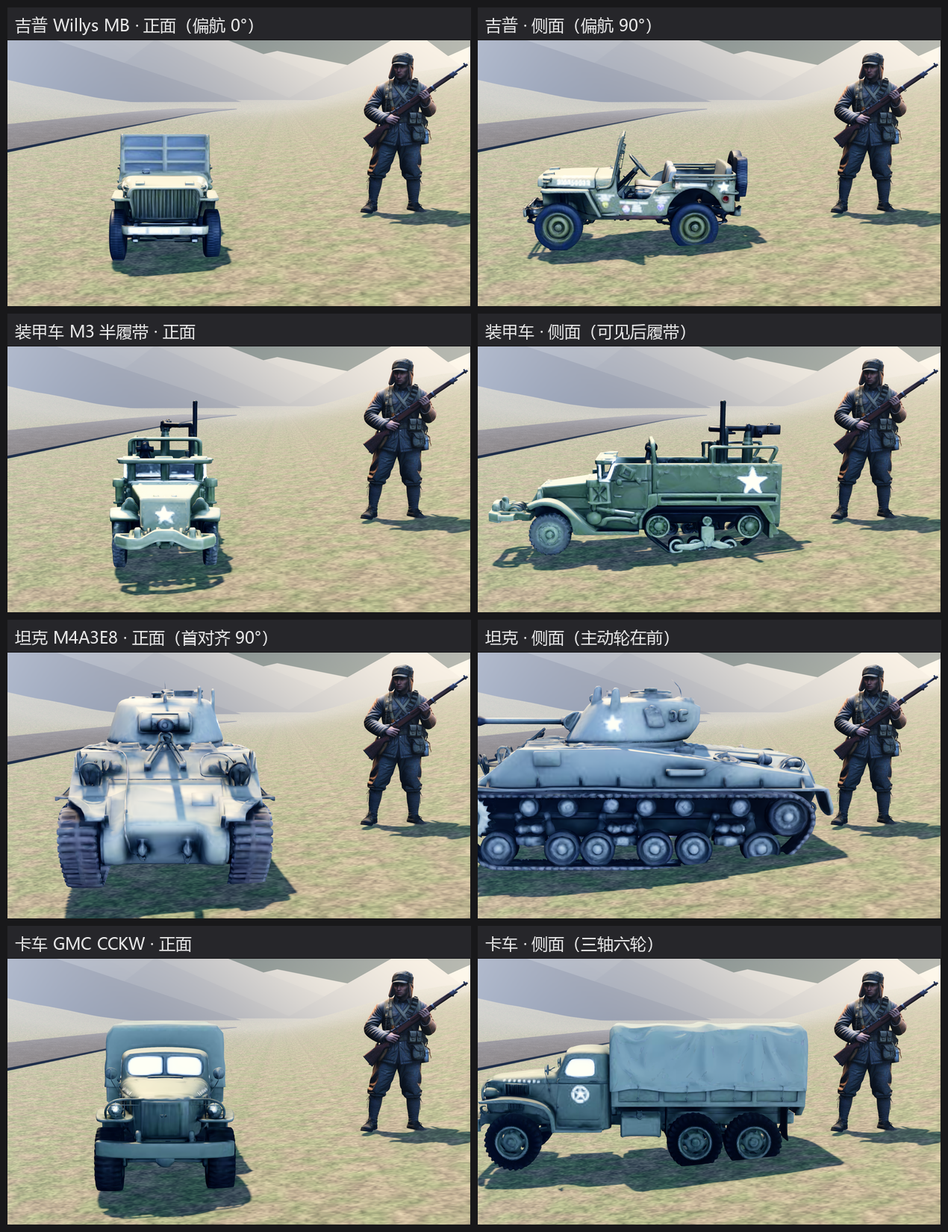
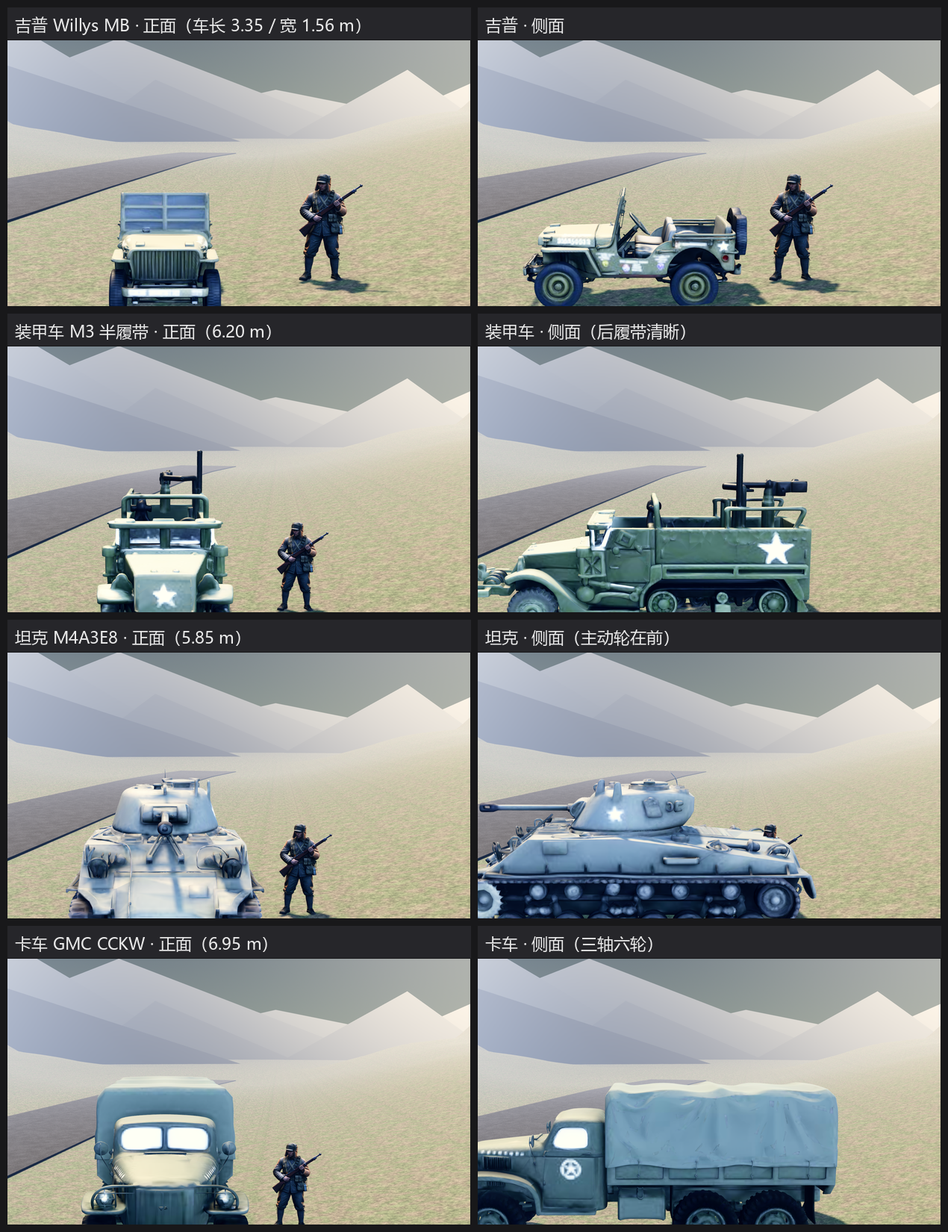
载具改为实车尺寸：先把"看起来多大"和"占多大地方"拆开，再让车长按实车归一化
用户裁决："我更想要'看起来像真车'"。上一版四辆车接了图生3D 真模型，但归一化
目标是 `spec.len × S`，而 `spec.len` 当时是一套"还没有模型时的占位碰撞盒"
（吉普 2.3 m / 实物 3.33 m，只占实物 47%~63%）——站在 1.68 m 的兵旁边像高尔夫球车。
本轮把 `VehicleSpec.len/wid` 改成实车尺寸。**这是用户明确授权的取舍**：
`len/wid` 同时是 sim 判遮挡/碰撞的车体盒，改它等于放宽碰撞，会动平衡基线。
（`src/sim/` 的"一行不动"红线由用户本轮主动解除，其余约束照旧。）

一、改了什么（数据是本轮唯一的"尺寸真值"）

  src/sim/va_config.cpp  四辆车 len/wid 改实车尺寸（单位 = 0.05 m）：
      吉普   67×31   ← Willys MB 3.33×1.57 m
      装甲车 124×44  ← M3 半履带 6.18×2.22 m
      坦克   117×60  ← M4A3E8 车体 5.84×2.99 m（取车体长，不含 76mm 炮管前伸）
      卡车   139×45  ← GMC CCKW 353 6.93×2.24 m
  渲染尺寸的唯一来源就是这个数（`scene_builder.cpp` 按 `spec.len * S` 等比归一化），
  所以 `src/node/` 不需要改任何渲染逻辑 —— 这是本轮改法能成立的根本原因。

  坦克为什么取车体长而不是含炮管的 7.54 m：用新增的 `tools/glb_profile.py`
  沿长轴切 120 片量剖面（每片取"另外两轴跨度"的较大者当厚度，找最长连续厚实段
  = 车体），实测模型两端都是履带环那种全宽-扁平截面、没有细突出物
  → 包围盒长轴 ≈ 车体长 → 按包围盒归一化即等于按车体归一化。
  取含炮管的全长会把整个车体缩小 22%。

二、受牵连的六个写死的常量（不改**都不报错**，只是静默变错）

  `len/wid` 原先身兼数职，底下挂着一串"按旧车长（2~3.7 m）调过"的常量：

  1. va_world.cpp  车队生成间距硬编码 `i * 132`（6.6 m），而停车排队用
     `CFG.convoyGap = 145` —— 两个数各说各话。实车卡车 6.93 m（139 单位）
     比 132 还长，行进中会与前后车穿模。→ 统一走 `CFG.convoyGap`，只留一个真值。
  2. va_ai_enemy.cpp 增援卡车间距硬编码 `k * 140` → 同上统一走 `CFG.convoyGap`。
  3. va_ai_enemy.cpp 增援卡车抄了一份 `v.len = 66; v.wid = 30;` —— 正好等于
     当时的卡车 spec 值，看起来"没毛病"，spec 一改就会静默留在旧尺寸上，
     让增援卡车比车队里的卡车小一圈。→ 改从 `tsp->len/wid` 取。
     （`v.armor = 0.34f` 保留显式覆写：增援车有意更软，那是玩法设定。）
  4. va_units.cpp 残骸跟停写死中心距 `<= 52`（2.6 m，两车半长之和按旧车长算）
     —— 旧车长时就已经让后车叠进前车 0.7 m，只是车小看不太出来；
[…]

diff --git a/tools/glb_profile.py b/tools/glb_profile.py
@@ -1,0 +1,126 @@
+#!/usr/bin/env python3
+# -*- coding: utf-8 -*-
+"""GLB 沿长轴的剖面量测 —— 分出「厚实车体」与「细突出物（炮管/保险杠/天线）」。
+
+为什么需要它
+------------
+图生3D 出来的载具，包围盒的**长轴尺寸里含炮管**。而引擎侧 `VehicleSpec.len`
+是 sim 用来判碰撞与遮挡的**车体盒**（`vehicle_blocked` / `vehicle_hit`），它表示的
+应该是"车体占多大地方"，不是"连炮管算多长"。坦克的 76mm 炮管前伸约 1.7 m、
+占整体长度的两成：拿"含炮管"的长度当碰撞盒 → "子弹在炮管前的空气里被挡下"；
+拿车体当碰撞盒却按"含炮管"去归一化模型 → 坦克被静默缩到实车的七成多。
+两个方向都错，所以先量出来再定。
+
+判据（故意做成纯几何：不看名字、不看朝向）
+------------------------------------------
+沿长轴切 NBIN 片，每片取**另外两轴跨度的较大者**当该片"厚度"。
+车体（含履带/车轮）一定厚，炮管/保险杠/天线一定薄。以全局最大厚度的
+HULL_FRAC_MIN 为门槛，取**最长的连续达标段** = 车体，两端余下即突出物。
+
+长轴由实测决定，**不猜**：图生3D 的长轴躺在哪个轴逐张不同，假定长轴=X
+曾把坦克静默放大 7.03 倍（见 SKILL 的载具小节）。
+
+只读，不改文件。用法：
+    python tools/glb_profile.py --all
+    python tools/glb_profile.py assets/art/veh/model/veh_tank.glb
+"""
+import os
+import sys
+
+HERE = os.path.dirname(os.path.abspath(__file__))
+sys.path.insert(0, HERE)
+
+import glb_preview as G   # noqa: E402  复用它的 GLB 解析（含 BIN 块按前 3 字节比那处修正）
+
+ROOT = os.path.dirname(HERE)
+MODEL_DIR = os.path.join(ROOT, "assets", "art", "veh", "model")
+
+NBIN = 120              # 沿长轴分的片数：再密就受三角面分布噪声影响
+HULL_FRAC_MIN = 0.55    # 片厚度 ≥ 全局最大厚度的这个比例，才算"车体"
+BAR = 46
+
+
+def measure(path):
+    js, bin_ = G.glb_read(path)
+    pts = G.collect_points(js, bin_)
+    name = os.path.basename(path)
+    if not pts:
+        print("%s : 没有顶点" % name)
+        return None
+
+    mn = [min(p[a] for p in pts) for a in range(3)]
+    mx = [max(p[a] for p in pts) for a in range(3)]
+    size = [mx[a] - mn[a] for a in range(3)]
+    long_axis = max(range(3), key=lambda a: size[a])
+    other = [a for a in (0, 1, 2) if a != long_axis]
+
+    lo, hi = mn[long_axis], mx[long_axis]
+    span = hi - lo
+
+    # 逐片截面：记另外两轴各自的 min/max，再取跨度较大者当"厚度"
+    bin_lo = [[None] * NBIN for _ in other]
+    for p in pts:
+        i = int((p[long_axis] - lo) / span * NBIN)
+        i = 0 if i < 0 else (NBIN - 1 if i >= NBIN else i)
+        for k, a in enumerate(other):
+            bl = bin_lo[k][i]
+            if bl is None:
+                bin_lo[k][i] = [p[a], p[a]]
+            else:
+                if p[a] < bl[0]:
+                    bl[0] = p[a]
+                if p[a] > bl[1]:
+                    bl[1] = p[a]
+
+    thick = []
+    for i in range(NBIN):
+        w = [0.0 if bin_lo[k][i] is None else bin_lo[k][i][1] - bin_lo[k][i][0]
+             for k in range(len(other))]
+        thick.append(max(w) if w else 0.0)
+
+    # 最长连续达标段 = 车体
+    thr = max(thick) * HULL_FRAC_MIN
+    best = (0, -1)
+    i = 0
+    while i < NBIN:
+        if thick[i] >= thr:
+            j = i
+            while j + 1 < NBIN and thick[j + 1] >= thr:
+                j += 1
+            if j - i > best[1] - best[0]:
+                best = (i, j)
+            i = j + 1
+        else:
+            i += 1
+    hull_n = best[1] - best[0] + 1
+    hull_frac = hull_n / float(NBIN)
+
+    print("%-16s 包围盒 (%.3f, %.3f, %.3f)  长轴 %s = %.3f" % (
+        name, size[0], size[1], size[2], "XYZ"[long_axis], span))
+    print("    车体 %.1f%% 长轴（余 %.1f%% 是突出物：左 %.1f%% 右 %.1f%%）" % (
+        hull_frac * 100.0, (1.0 - hull_frac) * 100.0,
+        best[0] / float(NBIN) * 100.0, (NBIN - 1 - best[1]) / float(NBIN) * 100.0))
+    peak = max(thick) or 1.0
+    for i in range(0, NBIN, 4):
+        m = max(thick[i:i + 4])
+        n = int(round(m / peak * BAR))
+        mark = "#" if m >= thr else "."
+        print("    |%s%s|%s %3d%%" % ("#" * n, " " * (BAR - n), mark,
+                                      int(round((i + 2) / float(NBIN) * 100.0))))
+    return hull_frac, size, long_axis
+
+
+def main():
+    args = sys.argv[1:]
+    if not args or args[0] == "--all":
+        files = sorted(os.path.join(MODEL_DIR, f) for f in os.listdir(MODEL_DIR)
+                       if f.endswith(".glb"))
+    else:
+        files = args
+    for f in files:
+        measure(f)
+        print("")
+
+
+if __name__ == "__main__":
+    main()

diff --git a/src/sim/va_config.cpp b/src/sim/va_config.cpp
@@ -113,12 +113,39 @@ const ShellSpec  SHELL { "坦克主炮", 640, 190, 96, 11.0f, 1.6f };
 // 平衡旋钮的运行时实例（默认值见 va_config.h；1.0 = 网页版原值）
 BalanceCfg BAL;
 
-// 注意 armor 语义：子弹穿透系数 = v.armor，数值越大越软。
+/* 注意 armor 语义：子弹穿透系数 = v.armor，数值越大越软。
+ *
+ * len / wid 已改为**实车尺寸**（单位 = 逻辑单位，20 单位 = 1 米，见 S）。
+ * 为什么值得动这张表：它同时是**渲染尺寸的唯一来源** —— 表现层按
+ * `target_len = spec.len * S` 等比归一化模型，所以改这里，视觉自动跟着走，
+ * src/node/ 一行都不用动。原先的 46/60/74/66 是"还没有模型时的占位碰撞盒"，
+ * 只做到实车的 47%~63%：吉普渲染出来 2.3 m（实车 3.33 m），
+ * 站在 1.68 m 的兵旁边像辆高尔夫球车。实车尺寸（公开数据）：
+ *
+ *   吉普   Willys MB            3.33 × 1.57 m
+ *   装甲车 M3 Half-track        6.18 × 2.22 m
+ *   坦克   M4A3E8 Sherman       5.84 × 2.99 m（车体长；含 76mm 炮管前伸为 7.54 m）
+ *   卡车   GMC CCKW 353         6.93 × 2.24 m
+ *
+ * 坦克取**车体**长而不是含炮管：炮管是前伸的细杆，用它当碰撞盒会让
+ * "子弹在炮管前的空气里被挡下"。实测过模型的剖面（tools/glb_profile.py）：
+ * 图生3D 出的坦克模型长轴方向**没有细突出物**（两端都是履带环那种全宽截面），
+ * 包围盒长轴 ≈ 车体长，所以按包围盒归一化即等于按车体归一化，两边自洽。
+ *
+ * ⚠ 改这张表会连带影响一串"按旧车长调过"的距离常量（生成间距 / 残骸跟停 /
+ * 下车偏移 / 机枪口），它们都已改成从 len/wid 推导 —— 见各自的注释。
+ * 另：载具殉爆半径 `len * 0.9`（va_level.cpp）**跟着 len 一起变大**，
+ * 那是刻意保留的（车大了爆炸自然大），已用 va_sweep 量过对胜率的影响。
+ */
 namespace {
-const VehicleSpec V_jeep  { "吉普",   150, 46, 24, 78, 0.30f, 2, 0, true,  7, 480, 0.13f, 0.100f, 16, false };
-const VehicleSpec V_apc   { "装甲车", 400, 60, 30, 62, 0.16f, 3, 6, true,  9, 520, 0.11f, 0.095f, 24, false };
-const VehicleSpec V_tank  { "坦克",   950, 74, 38, 44, 0.04f, 3, 0, true,  9, 520, 0.12f, 0.100f, 20, true  };
-const VehicleSpec V_truck { "卡车",   260, 66, 30, 66, 0.60f, 2, 6, false, 0, 0,   0.0f,   0.0f,   0,  false };
+/* 末位 = blast_r（殉爆半径），见 va_types.h 的说明。
+   取值 = 车长改实车尺寸**之前**的 0.9 × len，即"把改动前的威力原样保留"：
+   41.4 / 54 / 66.6 / 59.4 取整。不写 0（自动 = len × 0.9）是刻意的 ——
+   否则车一变长，打爆它的杀伤范围就跟着变，玩法会被美术改动牵着走。 */
+const VehicleSpec V_jeep  { "吉普",   150,  67,  31, 78, 0.30f, 2, 0, true,  7, 480, 0.13f, 0.100f, 16, false, 41.0f };
+const VehicleSpec V_apc   { "装甲车", 400, 124,  44, 62, 0.16f, 3, 6, true,  9, 520, 0.11f, 0.095f, 24, false, 54.0f };
+const VehicleSpec V_tank  { "坦克",   950, 117,  60, 44, 0.04f, 3, 0, true,  9, 520, 0.12f, 0.100f, 20, true,  67.0f };
+const VehicleSpec V_truck { "卡车",   260, 139,  45, 66, 0.60f, 2, 6, false, 0, 0,   0.0f,   0.0f,   0,  false, 59.0f };
 } // namespace
 
 const VehicleSpec *vehicle_of(const std::string &type) {

diff --git a/src/node/world_sim.cpp b/src/node/world_sim.cpp
@@ -220,19 +220,27 @@ void WorldSim::build_unit_showcase() {
         const char *kinds[4] = { "jeep", "apc", "tank", "truck" };
         const int   n = row ? 4 : 1;
 
-        // 取景：横向半视场 = 0.2867 × (2560/1369) ≈ 0.536（FOV 32 时），
-        // 竖直半视场 = 16° = 0.2793 rad。按"最宽的也要留约 20% 余量"定：
-        //   单车 —— 画面里还要站一个 1.68 m 的兵做比例尺（见下），他落在
-        //           车右侧 2.4 m 处，最坏情况（坦克侧视，半长 1.85 m）也在框内；
-        //           0.536×D ≥ (2.4+人身半宽 0.3)×1.2 → D ≥ 6.0。
-        //   陈列排 —— 四辆按 2.0 m 间距共 6.0 m，再加最宽的坦克半个身位 0.83 m，
-        //           0.536×D ≥ 3.83×1.2 → D ≥ 8.6。
-        // 机高取 1.6~2.1：**不能照抄角色那套 1.05 m** —— 相机比车顶还低的话
-        // 看到的是纯正面，车厢里装了什么、轮子有几个全被车头挡住。
-        const float DIST_M = row ? 8.8f : 6.2f;
-        const float CAM_H  = row ? 2.05f : 1.60f;
-        const float PITCH  = row ? -0.15f : -0.19f;
-        const float GAP_M  = 2.0f;
+        /* 取景（2026-09-20 车长改实车尺寸后重新推的 —— 旧值是按 2~3.7 m 的小车算的，
+           照抄会让四辆车直接出框）。
+           横向半视场 = 0.2867 × (2560/1369) ≈ 0.536（FOV 32 的竖直角换算来的）。
+           单车 —— 侧视时屏幕跨度 ≈ 车长 L（最长 6.95 m，卡车），再加参照兵横移：
+                   0.536×D ≥ (L + 参照兵 2.4)×0.5×1.2  →  D ≈ 7.0 + 0.6×L
+           陈列排 —— **一字排开且全部朝镜头时，横向占位是车宽、不是车长**
+                   （车长朝镜头里延伸，由透视体现）。四辆宽度 1.56+2.32+2.84+2.62
+                   = 9.34 m，加 3 段 3 m 间隙 = 18.3 m：
+                   0.536×D ≥ 18.3/2×1.15 → D ≥ 19.6，取 20.5。
+                   间距取 3 m 的依据是**相邻半宽之和**（最坏 1.42+1.50 = 2.92），
+                   不是车长 —— 按车长算会得出 7 m 间距、D 要 46 m，人跟车都小到看不清。
+           （第一版实车取景就是拿车长当横向占位推的，结果间距 1.5 m 让四辆车互相遮挡。）
+           机高 —— "相机不能比车顶低"这条对实车更要紧（实车本体 2.3~3.0 m 高），
+                   取 1.6 + 0.30×L：吉普 2.6 / 半履带 3.46 / 坦克 3.36 / 卡车 3.69。
+           单车的 D 与机高**按该车的实际车长算**，所以换车型不用再回来调常数。 */
+        const va::VehicleSpec *fsp = va::vehicle_of(row ? "truck" : key);
+        const float frameL = (fsp != nullptr) ? fsp->len / U : 3.0f;   // 米
+        const float DIST_M = row ? 20.5f : (7.0f + 0.60f * frameL);
+        const float CAM_H  = row ? 4.60f : (1.60f + 0.30f * frameL);
+        const float PITCH  = row ? -0.13f : -0.13f;
+        const float GAP_M  = row ? 3.0f : 0.0f;
         const float REF_OFF_M = 2.4f;   // 比例尺参照兵与车心的横向间距（仅单车模式）
 
         int built = 0;

diff --git a/src/sim/va_ai_enemy.cpp b/src/sim/va_ai_enemy.cpp
@@ -24,6 +24,11 @@ void dismount(Vehicle *v) {
     for (int i = 0; i < n; ++i) {
         const int side = RNG.next() < 0.5f ? 1 : -1;
         const float a = 3.141592653589793f / 2 * side + rr(-0.5f, 0.5f);
+        /* 下车位置必须在**车体之外**。偏移原先写死 rr(16,42)（0.8~2.1 m），
+           那是按旧车宽 1.2 m 定的；车宽改成实车（最大半宽 1.5 m）之后，
+           rr(16,·) 会让士兵直接**生成在车厢内部**。改成从半宽起算。 */
+        const float outA = v->wid * 0.5f + rr(10.0f, 34.0f);
+        const float outB = v->wid * 0.5f + rr(10.0f, 34.0f);
         const bool isOfficer = (W.officerVeh == v) && !W.officerSpawned && i == 0;
         if (isOfficer) W.officerSpawned = true;
         const bool isLmg = (i % 5 == 0);
@@ -143,15 +148,20 @@ void spawn_reinforcement() {
         v.type = "truck";
         v.name = "增援卡车" + std::to_string(k + 1);
         v.team = Team::Enemy;
-        v.x = 2320 + k * 140; v.y = 700; v.angle = 3.141592653589793f;
+        v.x = 2320 + (float)k * CFG.convoyGap; v.y = 700; v.angle = 3.141592653589793f;
         v.speed = 26; v.baseSpeed = 26;
         v.hp = tsp->hp; v.maxHp = tsp->hp; v.spec = tsp;
-        v.len = 66; v.wid = 30; v.armor = 0.34f;
+        /* 尺寸一律从 spec 取。原先这里硬写着 `v.len = 66; v.wid = 30;` ——
+           正好等于当时卡车 spec 的值，所以看起来"没毛病"；但 spec 一改
+           （本轮改实车尺寸）这里就会静默地留在旧尺寸上，让增援卡车比车队里的
+           卡车**小一圈**且不报任何错。armor 保留显式覆写：增援车有意更软，
+           那是玩法设定，不是从 spec 抄漏了。 */
+        v.len = tsp->len; v.wid = tsp->wid; v.armor = 0.34f;
         v.destroyed = false; v.burning = 0;
         v.turret = 3.141592653589793f; v.fireCd = 99; v.wpnCd = 2;
         v.capacity = 6; v.dismountT = -1; v.dismounted = false;
         v.state = "drive"; v.line = 1; v.speedMul = 1;
-        v.dist = -(float)k * 140;
+        v.dist = -(float)k * CFG.convoyGap;
         v.hasBox = false; v.hitFlash = 0; v.stopT = 0;
         v.troopPlan = 6; v.isReinforcement = true; v.blockedT = 0;
     }

diff --git a/src/node/scene_builder.h b/src/node/scene_builder.h
@@ -89,15 +89,16 @@ godot::Node3D *make_box_node();
 // vehicle_of() 认的那四个键（jeep / apc / tank / truck），与程序化那套同名同数。
 // 载入失败一律回退到程序化图元 —— 少一个模型文件不该让战场上少一辆车。
 //
-// 【与角色/武器最本质的差别：目标尺寸来自 VehicleSpec，而不是现实尺寸】
-// 武器的归一化目标写死为"真枪全长"（莫辛 1232 mm）。载具不行：
-// `VehicleSpec.len / wid` 同时是 **sim 用来判遮挡与碰撞的车体**（vehicle_blocked），
-// 而它是按玩法需要定的、比实物短得多 —— 吉普 len=46 逻辑单位 = **2.3 米**
-// （实物 Willys MB 是 3.35 米）、卡车 3.3 米（实物 CCKW 6.9 米）。
-// 若照实物缩放，画面上就会出现"子弹从车厢里穿过去"这种视线与判定脱节 ——
-// 而 va_config.cpp 在 src/sim/ 里，是**不许动**的。
-// 所以这里的归一化目标是**车长 = spec.len × S**，与程序化车体同一占地：
-// 换成真模型只改"长什么样"，不改"占多大地方"。
+// 【目标尺寸 = spec.len × S，而 spec.len 自 2026-09-20 起就是实车尺寸】
+// 与武器那条"归一化到真枪全长"是同一个口径了：车长按实车尺寸归一化。
+// 曾经不是 —— 那时 `VehicleSpec.len/wid` 是一套"还没有模型时的占位碰撞盒"
+// （吉普 2.3 米 / 实物 3.35 米），所以当时的规则是"只改长什么样、不改占多大地方"。
+// 那套尺寸在 1.68 m 的兵旁边读起来像高尔夫球车，已改成实车尺寸（见 README
+// 「载具形象」一节，含 8/10 → 6/10 的平衡代价与归因）。
+//
+// 注意 `len/wid` 同时是 sim 判遮挡与碰撞的车体盒（`vehicle_blocked`）与
+// **殉爆半径**的来源：后者已拆成显式 `VehicleSpec.blast_r`，不再跟着 len 漂。
+// 改 len 之前先看 README 那张"受牵连常量"表，别只改一处。
 godot::Node3D *make_vehicle_node_by_key(const std::string &p_type, godot::Node *p_proto_parent);
 
 // ---- 角色三维模型（图生3D 产物，tools/gen3d.py + tools/slim_glb.py）----

diff --git a/src/sim/va_combat.cpp b/src/sim/va_combat.cpp
@@ -117,18 +117,24 @@ void spawn_shell(Vehicle *v, float tx, float ty) {
 
 void spawn_tank_mg(Vehicle *v, float tx, float ty) {
     const float base = std::atan2(ty - v->y, tx - v->x) + (RNG.next() + RNG.next() - 1.0f) * 0.10f;
+    /* 枪口偏移按车长推导，不再写死 30（= 1.5 m）。
+       30 是旧车长（3.3 m，半长 1.65 m）时代的数：当时刚好在车体边缘外。
+       车长改实车尺寸后，6.93 m 的卡车半长 3.47 m —— 写死 30 会把弹丸和枪口焰
+       生成在**车厢内部**，看起来像从货物堆里往外打。 */
+    const float muz = v->len * 0.5f + 10.0f;
+    const float mx = v->x + std::cos(base) * muz, my = v->y + std::sin(base) * muz;
     Projectile p;
     p.kind = ProjKind::TankMG;
-    p.x = v->x + std::cos(base) * 30; p.y = v->y + std::sin(base) * 30;
+    p.x = mx; p.y = my;
     p.vx = std::cos(base) * 950; p.vy = std::sin(base) * 950;
     p.dmg = v->spec->mg_dmg * BAL.veh_mg_dmg; p.pen = 0.12f;
     p.team = v->team; p.ownerVeh = v; p.ownerT = Target(v);
     p.life = 0.6f; p.t = 0; p.sup = v->spec->mg_sup;
     W.projectiles.push_back(p);
-    { FxItem f; f.type = "flash"; f.x = v->x + std::cos(base) * 30; f.y = v->y + std::sin(base) * 30;
+    { FxItem f; f.type = "flash"; f.x = mx; f.y = my;
       f.life = 0.05f; f.a = base; fx_push(f); }
     /* 车载机枪：走 enemyMG 音色但压低一点，免得抢过步兵步枪的方位感 */
-    sfx("enemyMG", v->x + std::cos(base) * 30, v->y + std::sin(base) * 30, 0.85f);
+    sfx("enemyMG", mx, my, 0.85f);
 }
 
 bool vehicle_hit(const Vehicle &v, float x, float y) {

diff --git a/src/sim/va_world.cpp b/src/sim/va_world.cpp
@@ -411,11 +411,17 @@ void build_convoy() {
         v.id = type + std::to_string(idx[ti]);
         v.name = std::string(names[ti]) + std::to_string(idx[ti]);
         v.team = Team::Enemy;
-        v.x = 2320 + i * 132; v.y = 700; v.angle = 3.141592653589793f;
+        /* 展开间距与停车排队间距（CFG.convoyGap）**必须是同一个数**：
+           原先这里是硬编码的 132、而停车排队用 CFG.convoyGap=145，两个数各说各话。
+           车长改实车尺寸后这条就绷不住了 —— 6.93 m 的卡车（139 单位）比 132 还长，
+           行进中会与前后车穿模。现在统一走 CFG.convoyGap，只留一个真值。
+           另外注意：领头车（i==0）的 dist 恒为 0，所以改间距**不影响**伏击触发的
+           时刻（伏击判据用的是领头车的 x），只让后续车依次晚到。 */
+        v.x = 2320 + (float)i * CFG.convoyGap; v.y = 700; v.angle = 3.141592653589793f;
         v.speed = 0;
         const VehicleSpec *sp = vehicle_of(type);
         v.baseSpeed = sp->speed * 0.30f;
-        v.dist = -i * 132.0f;
+        v.dist = -(float)i * CFG.convoyGap;
         v.hp = sp->hp; v.maxHp = sp->hp;
         v.spec = sp;
         v.len = sp->len; v.wid = sp->wid; v.armor = sp->armor;

diff --git a/src/sim/va_level.cpp b/src/sim/va_level.cpp
@@ -137,7 +137,12 @@ void damage_vehicle(Vehicle *v, float dmg, const std::string &kind, Unit *byUnit
 void destroy_vehicle(Vehicle *v, Unit *byUnit) {
     if (!v || v->destroyed) return;
     v->destroyed = true; v->burning = 30; v->hp = 0;
-    explosion(v->x, v->y, v->len * 0.9f, v->type == "tank" ? 160.0f : 90.0f, Team::Enemy, "vehicle");
+    /* 殉爆半径走 spec->blast_r（0 才回退到 len × 0.9，见 va_types.h）。
+       不再直接用 len：车长改实车尺寸时，写死 len × 0.9 会让杀伤半径跟着放大
+       1.5~2.1 倍 —— 而伏击是贴身打，等于凭空提高难度（实测掉 1 胜 / 10 种子）。 */
+    const float blastR = (v->spec != nullptr && v->spec->blast_r > 0.0f)
+                       ? v->spec->blast_r : v->len * 0.9f;
+    explosion(v->x, v->y, blastR, v->type == "tank" ? 160.0f : 90.0f, Team::Enemy, "vehicle");
     sfx("metal", v->x, v->y, 0.8f);          // 车体撕裂的金属余音
     decal_rgba(v->x, v->y, v->len * 0.6f, 30, 26, 22, 0.55f);
     if (byUnit && byUnit->team == Team::Ally) byUnit->kills++;

diff --git a/src/sim/va_units.cpp b/src/sim/va_units.cpp
@@ -128,7 +128,13 @@ void update_vehicles(float dt) {
         }
         if (wreck) v->blockedT += dt;
         float speed = 0;
-        if (wreck && distf(v->x, v->y, wreck->x, wreck->y) <= 52) {
+        /* 跟停距离按**两车半长之和**算，不再写死 52。
+           52 是"车长 3 米时代"的数（两车中心距 2.6 m）：那时就已经让后车叠进
+           前车 0.7 m，只是车小看不太出来；车长改成实车尺寸后会叠进去 4 米 ——
+           一辆 6.9 m 的卡车有一半插在另一辆里。改成"半长之和 + 8 单位（0.4 m）"，
+           车多大就停多远，以后加车也不用再回来调。 */
+        const float stopGap = wreck != nullptr ? (v->len + wreck->len) * 0.5f + 8.0f : 0.0f;
+        if (wreck && distf(v->x, v->y, wreck->x, wreck->y) <= stopGap) {
             speed = 0;
             if (!v->dismounted && v->type != "tank" && v->blockedT > 1.5f) dismount(v);
         } else if (v->isReinforcement) {

diff --git a/src/node/scene_builder.cpp b/src/node/scene_builder.cpp
@@ -1135,9 +1135,10 @@ static Node3D *load_vehicle_proto(const std::string &p_type, Node *p_parent) {
     constexpr float PI = 3.14159265358979323846f;
     Basis b(Vector3(0.0f, 1.0f, 0.0f), yaw_deg * PI / 180.0f);
 
-    // 车长按 spec 走（理由见头文件），**不是**按实物长度 —— 它是被 sim 用来判
-    // 遮挡与碰撞的那个尺寸，改成实物尺寸就会视线与判定脱节，而 va_config.cpp
-    // 在 src/sim/ 里、不许动。
+    // 车长按 spec 走（理由见头文件）。`spec.len` 自 2026-09-20 起就是实车尺寸，
+    // 所以这条同时是"按实车长度归一化"——与武器那套口径一致。
+    // 它**同时**是 sim 判遮挡/碰撞的车体盒，改它会连带一串按旧车长调过的常量
+    // （README「载具形象」有清单），不要只改这里。
     const va::VehicleSpec *sp = va::vehicle_of(p_type);
     const float target_len = sp->len * S;
 

diff --git a/src/sim/va_types.h b/src/sim/va_types.h
@@ -31,6 +31,13 @@ struct VehicleSpec {
     bool  has_mg = false;
     float mg_dmg = 0, mg_range = 0, mg_rof = 0, mg_spread = 0, mg_sup = 0;
     bool  cannon = false;
+    /* 殉爆半径。**0 = 按 len × 0.9 自动算**（历史行为）。
+       单独列出来的原因：`len` 原先身兼三职 —— 渲染尺寸、碰撞/遮挡盒、**殉爆半径**。
+       前两个是"车多大"，第三个是"打爆它伤多大范围"，是**玩法量**、跟车的美术尺寸
+       没有必然关系。2026-09-20 把 len 改成实车尺寸时，殉爆半径跟着悄悄放大了
+       1.5~2.1 倍（坦克 2.1→2.9 m 半径仍在 160 伤害），10 种子胜率因此掉 1 胜。
+       让玩法量跟着美术尺寸漂移就是"一个数干两件事"，所以钉成显式字段。 */
+    float blast_r = 0.0f;
 };
 
 // ------------------------------------------------------------------ 地形物件

diff --git a/tools/va_sweep.cpp b/tools/va_sweep.cpp
@@ -81,6 +81,14 @@ const Scenario SCEN[] = {
     { "C-evac",   1.00f, 1.00f, 1.00f, 5 },   // 降低撤离门槛
     { "A+B",      0.55f, 1.80f, 1.40f, 6 },
     { "A+C",      0.55f, 1.80f, 1.00f, 5 },
+    /* ---- 车长改实车尺寸（2026-09-20）之后的重新搜索 ----
+       实车尺寸让车队从"6 个 3 米小盒"变成"一道 35 米、会吸子弹的墙"：
+       队友绕不过去、子弹被车体吃掉，A-mg 从 8/10 掉到 6/10（殉爆半径钉回原值后）。
+       下面四行是"要把 8/10 找回来，旋钮得拧到哪"的候选，**尚未采用**。 */
+    { "P1-hp18",  0.55f, 1.80f, 1.80f, 6 },
+    { "P2-mg45",  0.45f, 2.20f, 1.00f, 6 },
+    { "P3-mg45hp", 0.45f, 2.20f, 1.40f, 6 },
+    { "P4-mg40hp", 0.40f, 2.40f, 1.40f, 6 },
 };
 const int NSCEN = (int)(sizeof(SCEN) / sizeof(SCEN[0]));
 
